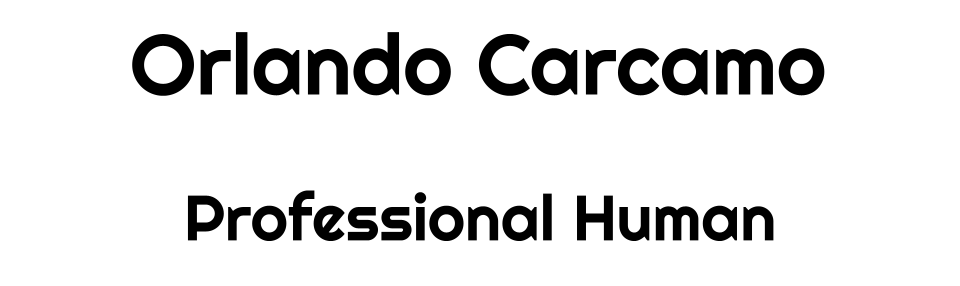
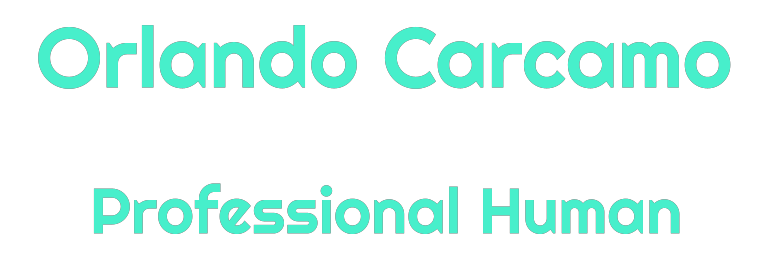
colour

Changed region(s): [[0.0301, 0.0857, 0.9646, 0.3429], [0.1206, 0.6571, 0.9043, 0.8571]]

diff --git a/_sass/minima/dark-mode.scss b/_sass/minima/dark-mode.scss
@@ -12,7 +12,7 @@ html, body, input, textarea, select, button {
 }
 
 a {
-    color: rgb(75, 186, 255) !important;
+    color: rgb(71, 239, 203) !important;
 }
 
 a:hover {
